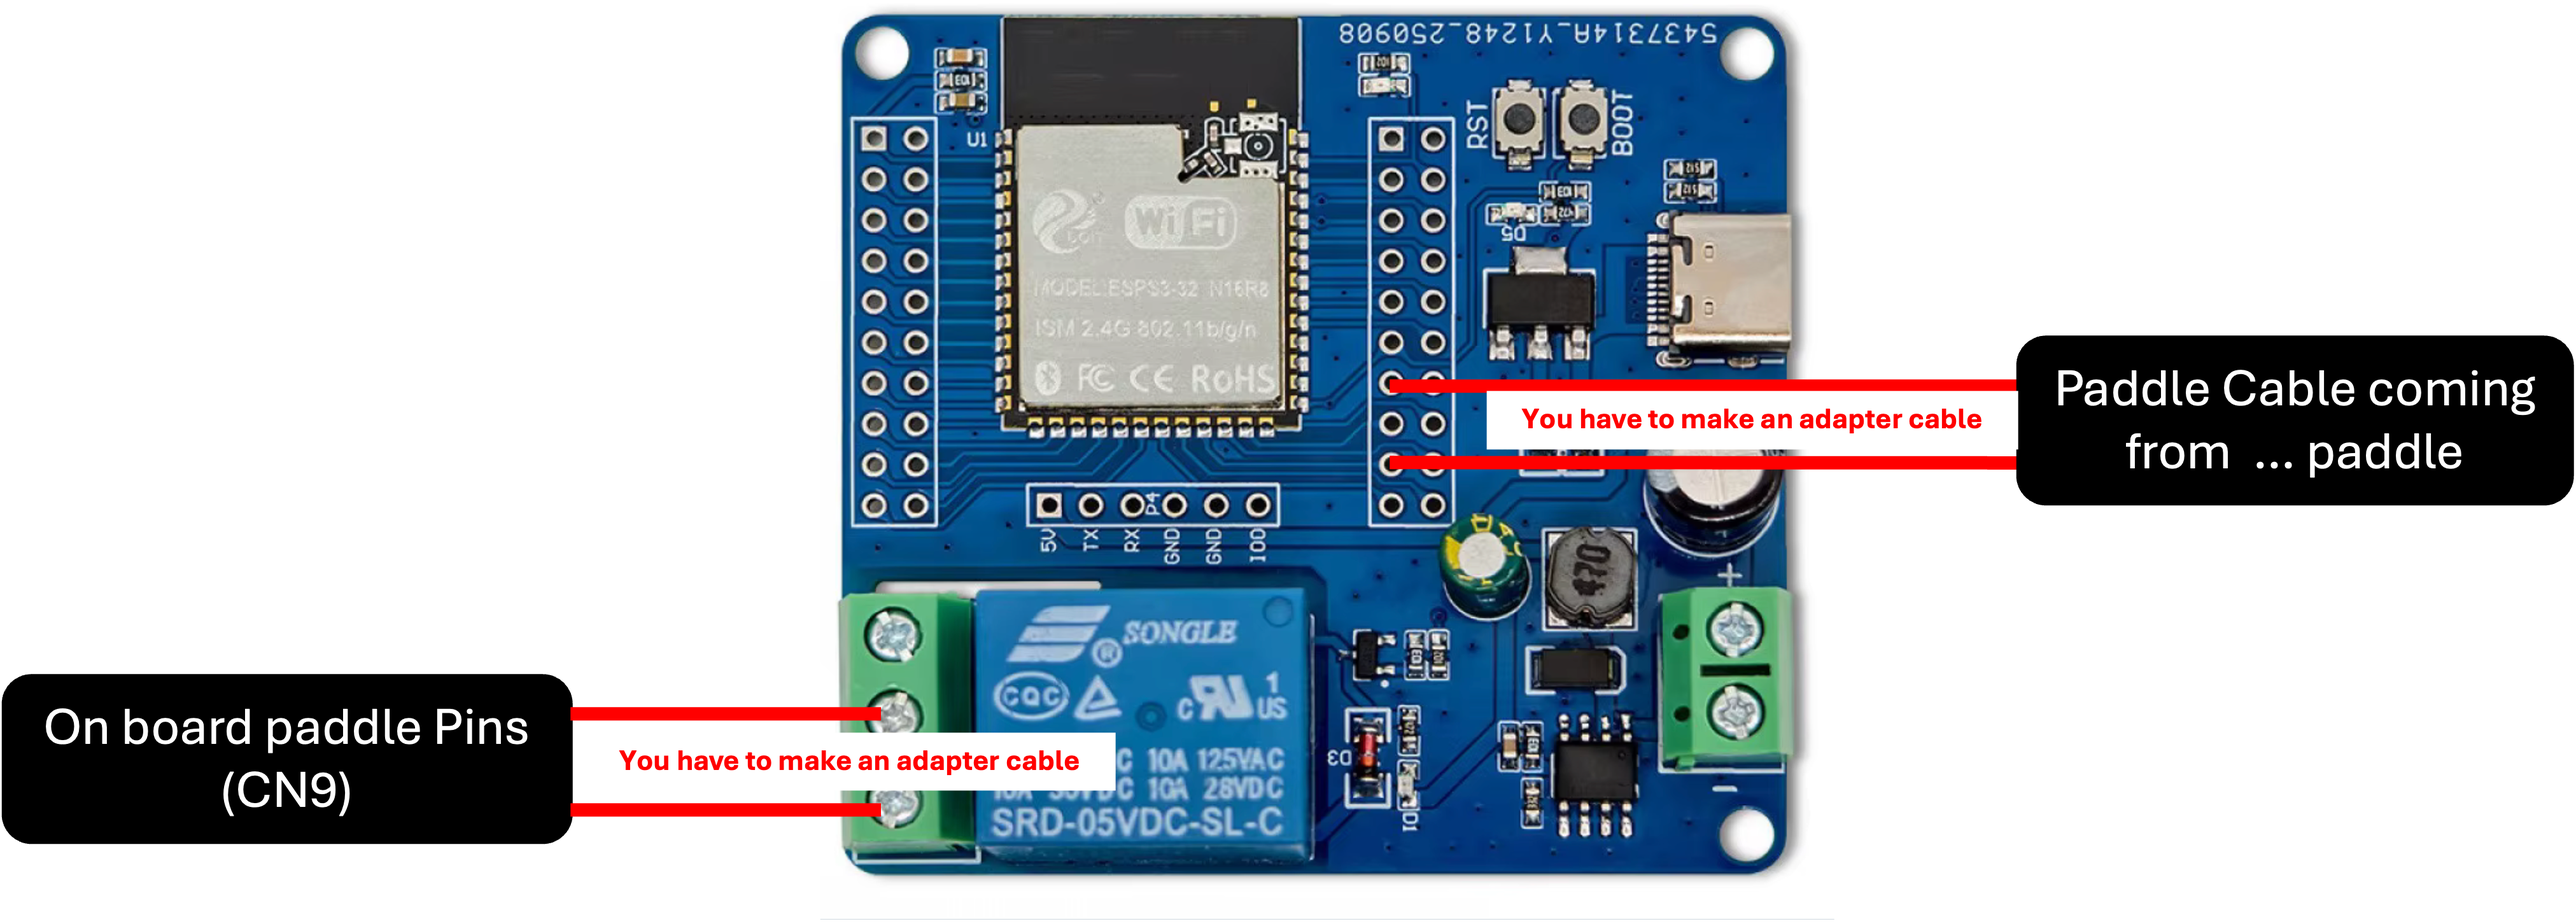
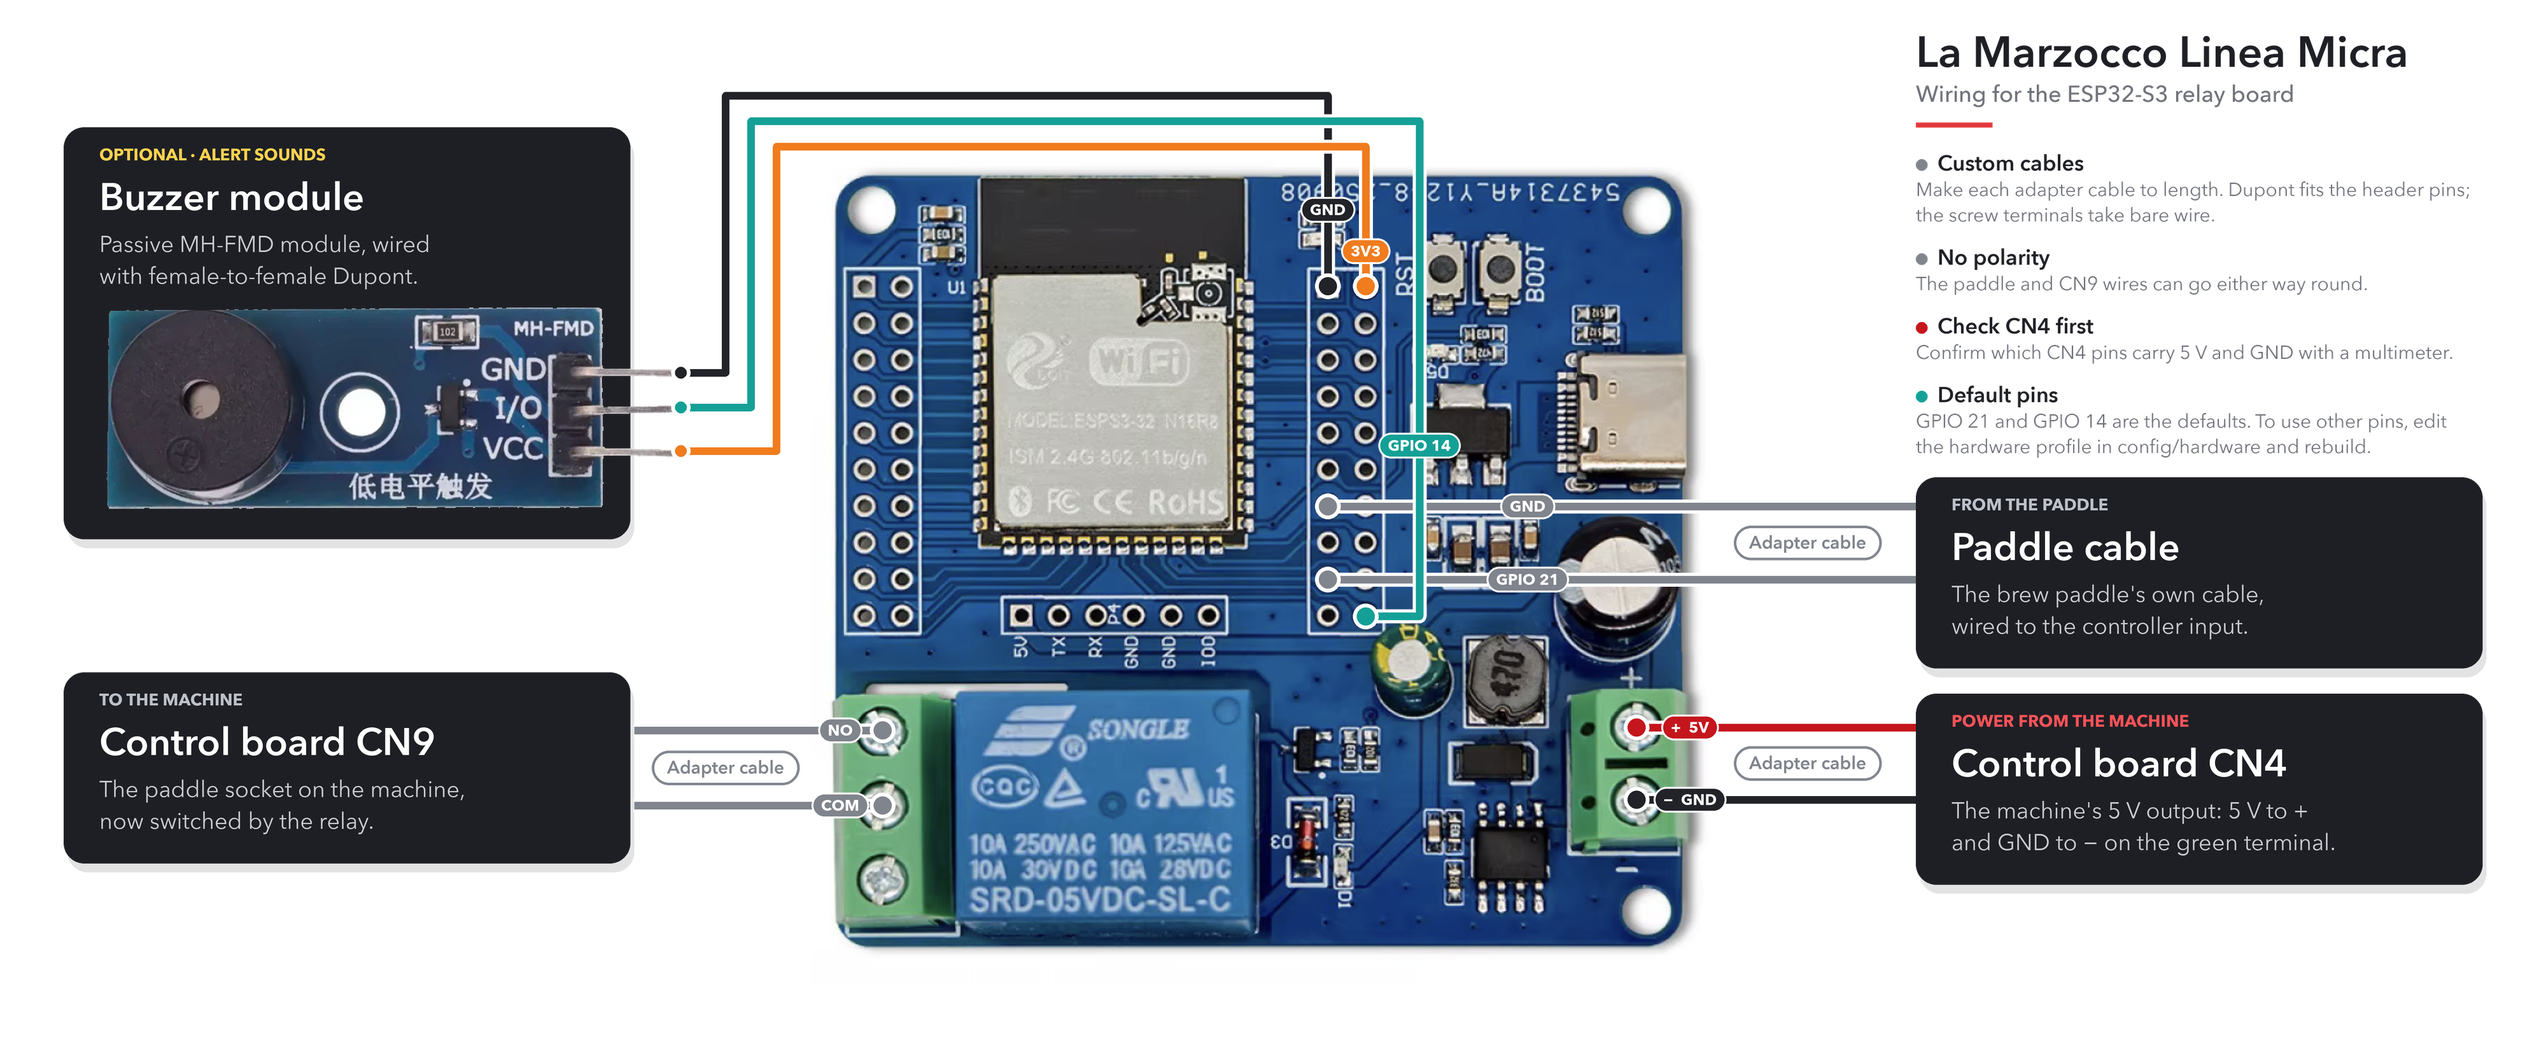
docs(hardware): redraw the Linea Micra wiring diagram
Replace the Micra wiring illustration with a clean diagram built on the
untouched front photo of the ESP32-S3 relay board.

What is fixed: the previous diagram routed the machine's CN9 cable to the
relay's middle and bottom screws, which the board's back silkscreen marks
as COM and NC. NC keeps the machine circuit closed whenever the relay is
unpowered and inverts the normally-open contact the firmware expects.

- Wire CN9 to the relay COM and NO terminals.
- Show the paddle cable on GPIO 21 and GND, with grey non-polarised wires.
- Add machine power from CN4 to the green terminal: 5 V to +, GND to -.
- Add the optional passive MH-FMD buzzer on GPIO 14, 3V3 and GND, with a
  colour per lead and female-to-female Dupont cables.
- Mark every adapter cable and add notes on custom cables, polarity,
  checking CN4 with a multimeter, and default pins being editable in the
  hardware profile.
- Update the README caption and the image alt text in README and
  HARDWARE to describe the new content.

diff --git a/README.md b/README.md
@@ -87,11 +87,12 @@ Support for a switch model is not certification of a particular espresso
 machine. The firmware's 60 s relay limit and the ability to stop water flow
 are different on momentary machines; read the [stop limitations](docs/settings/momentary.md#stopping-and-time-limits).
 
-This illustration shows the paddle-connector routing used during Micra
-development. It is not a wiring schematic or pinout; verify the actual machine
-circuit and follow the [hardware safety guidance](docs/HARDWARE.md) before installation.
+This illustration shows how the Micra was wired during development: the paddle
+cable, the machine's CN9 and CN4 connectors, and the optional buzzer. It is a
+reference, not a replacement for checking your own machine; verify the actual
+machine circuit and follow the [hardware safety guidance](docs/HARDWARE.md) before installation.
 
-![Micra paddle connector and adapter-cable routing on the relay board](docs/images/micra_diagram.png)
+![Linea Micra wiring: paddle cable, CN9 on the relay, CN4 power and the optional buzzer](docs/images/micra_diagram.png)
 
 ## Main features
 

diff --git a/docs/HARDWARE.md b/docs/HARDWARE.md
@@ -10,7 +10,7 @@ The board pin map and enclosure are documented below. Machine-specific wiring di
 ### Wiring Diagrams
 
 - **Linea Micra**:
-  ![Linea Micra Wiring Diagram](images/micra_diagram.png)
+  ![Linea Micra wiring: paddle cable, CN9 on the relay, CN4 power and the optional buzzer](images/micra_diagram.png)
 - **Rancilio Silvia Pro X**:
   ![Rancilio Silvia Pro X Wiring Diagram](images/silvia_pro_x_diagram.png)
 
